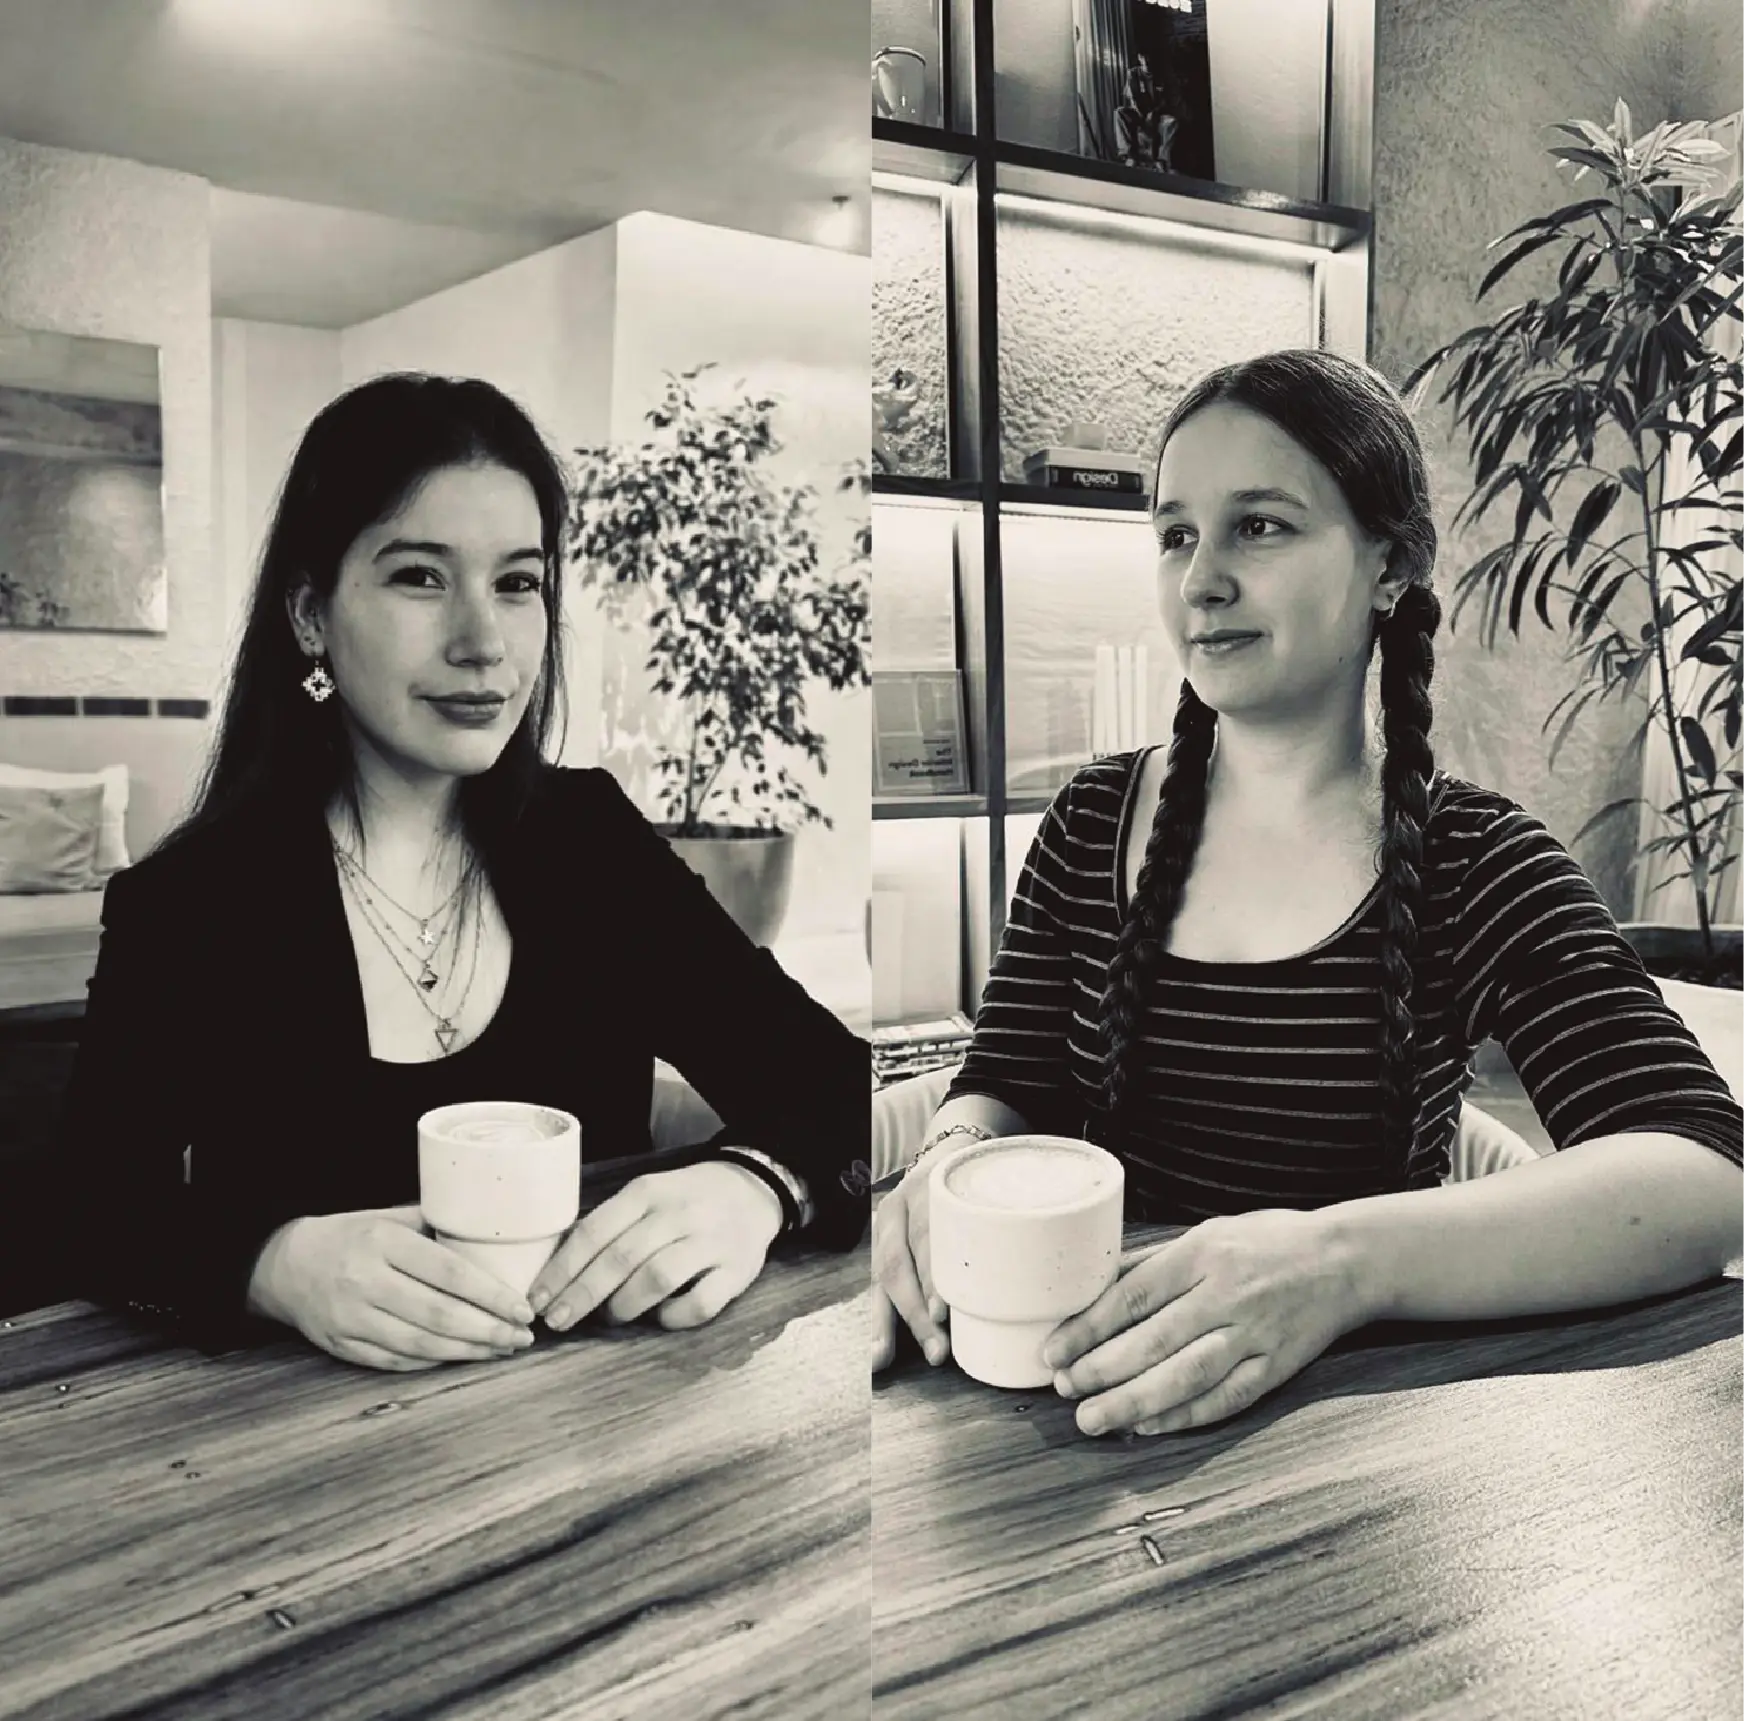
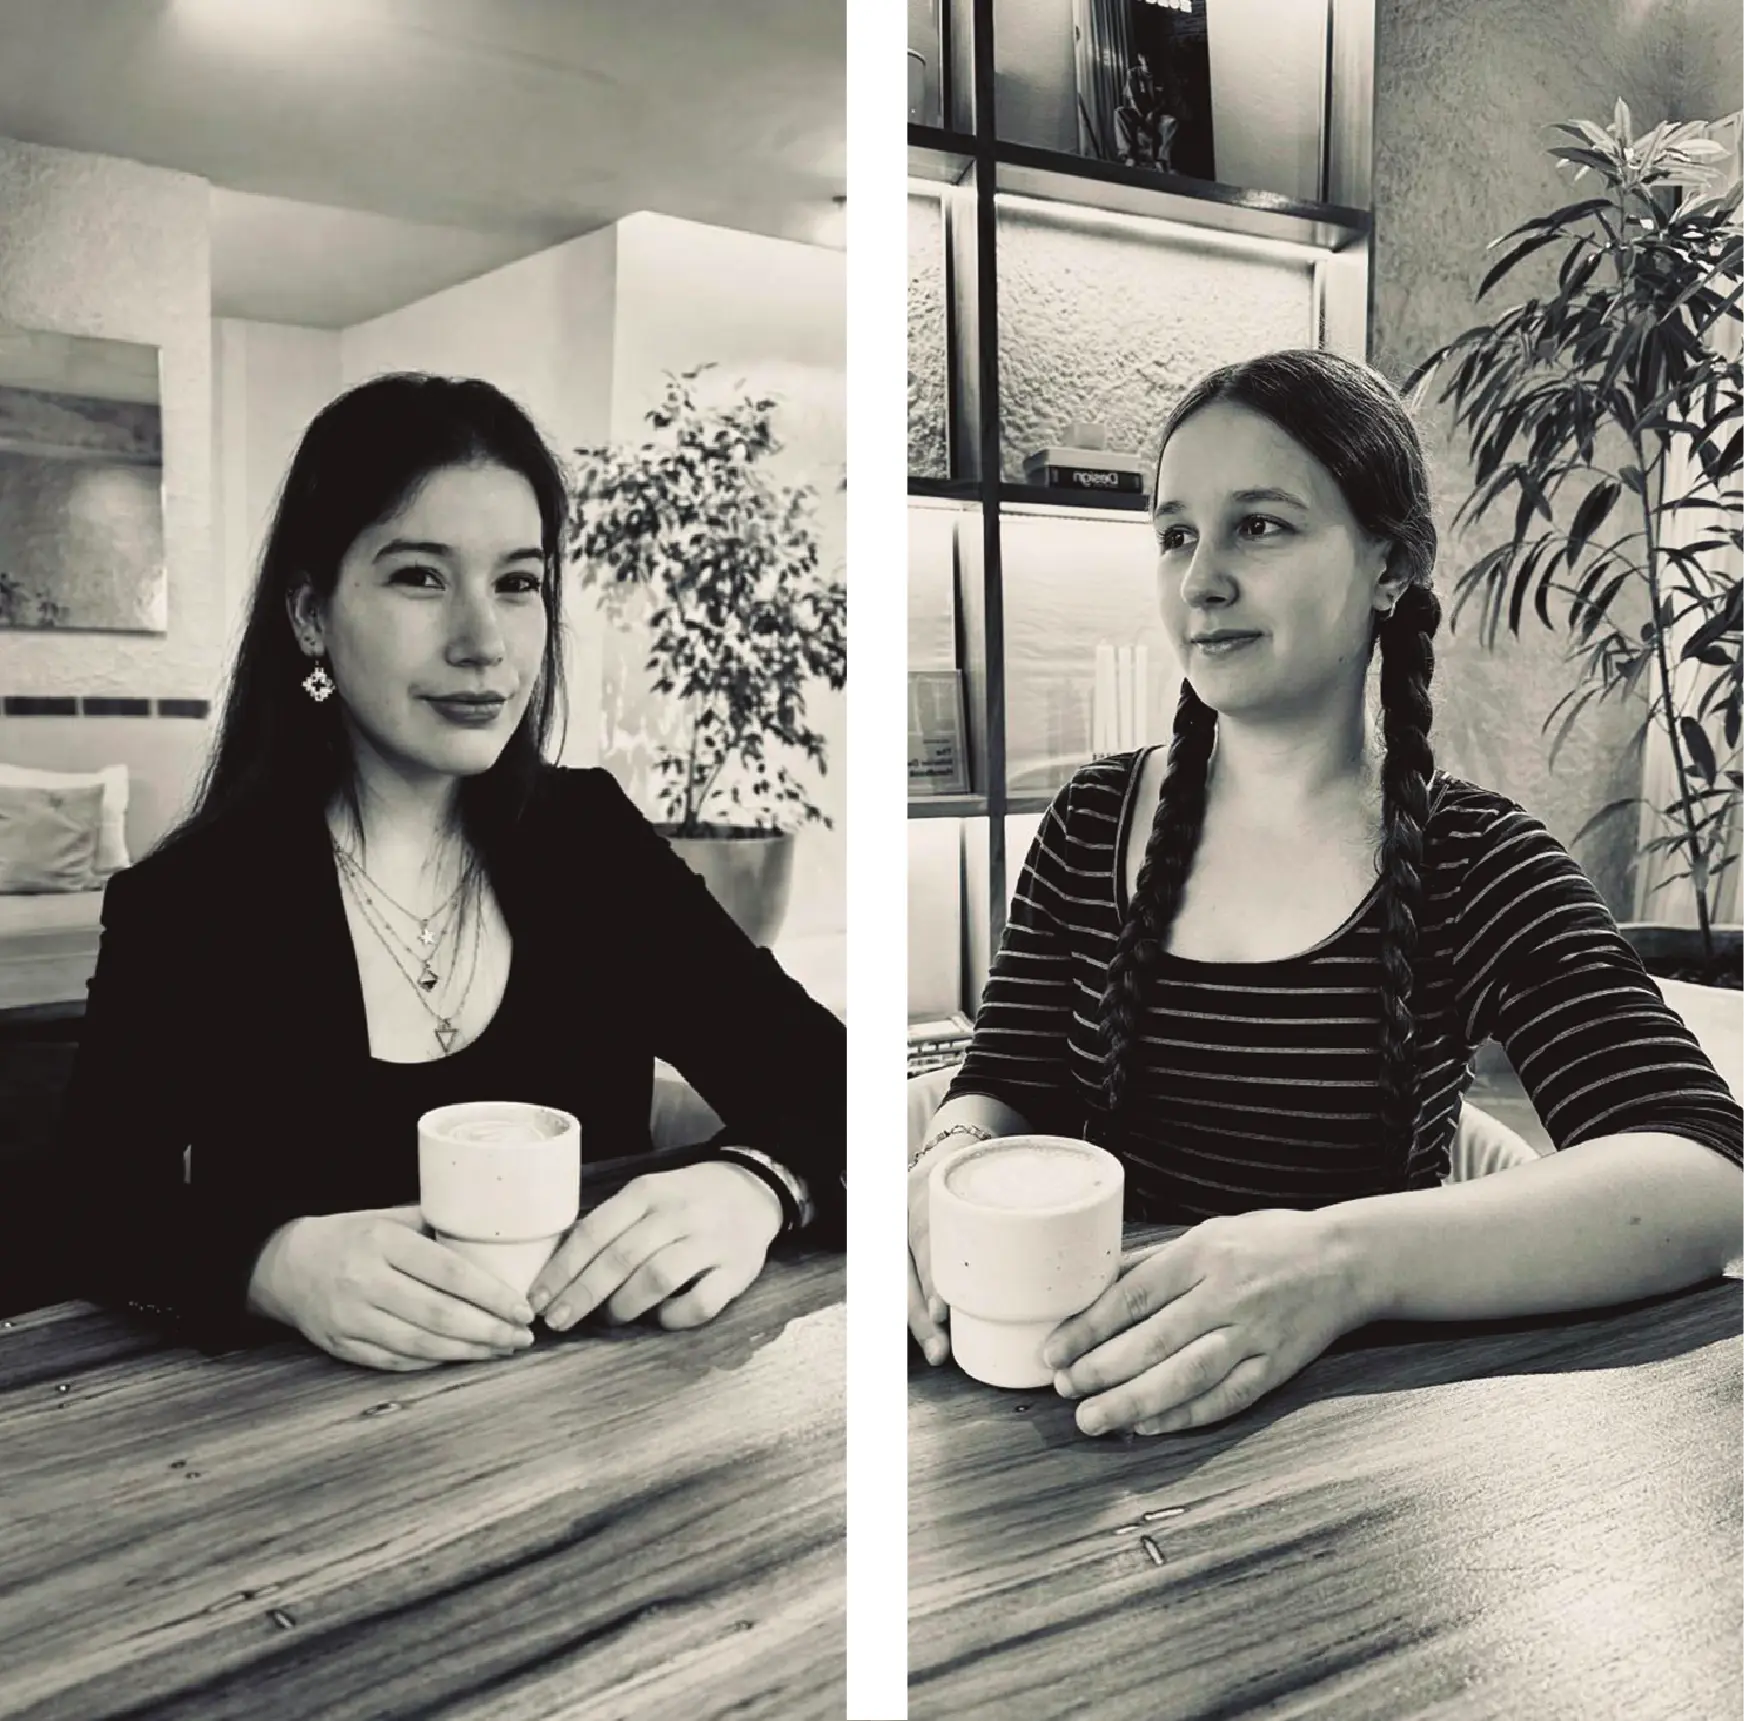
chore: update author metadata and replace book cover and author images

Changed region(s): [[0.4644, 0.0, 0.5264, 1.0]]

diff --git a/src/content/posts/la-tienda-de-cafe.md b/src/content/posts/la-tienda-de-cafe.md
@@ -1,6 +1,6 @@
 ---
 pubDate: 2026-04-01
-author: "de Sol Chacana y Camila Marí Lozada"
+author: "Sol Chacana y Camila Marí Lozada"
 bio: "Sol Chacana nació en Buenos Aires en 1999. Se crio entre libros, y aprendió el arte de relatar a través de las historias que pasaban por sus manos. En 2021 se formó como barista, lo que le abrió las puertas a un nuevo universo de sensaciones. La tienda de café es su primera obra publicada. Camila Marí Lozada nació en Buenos Aires en 2000. Encuentra en el dibujo una forma de habitar mundos imaginarios, entre lo analógico y lo digital. Enseña artes visuales en la Escuela de Ilustración José Sanabria. Esta obra marca su debut como ilustradora en un libro."
 title: "La tienda de café"
 type: "Novela ilustrada"
